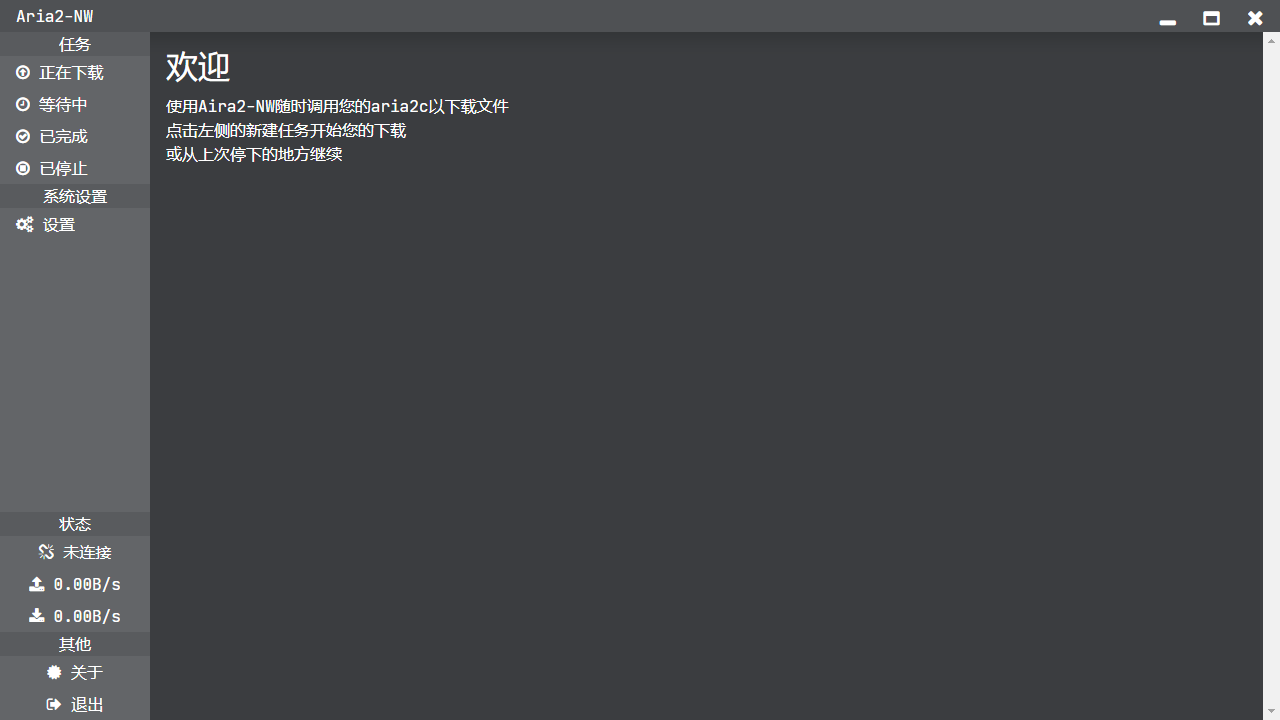
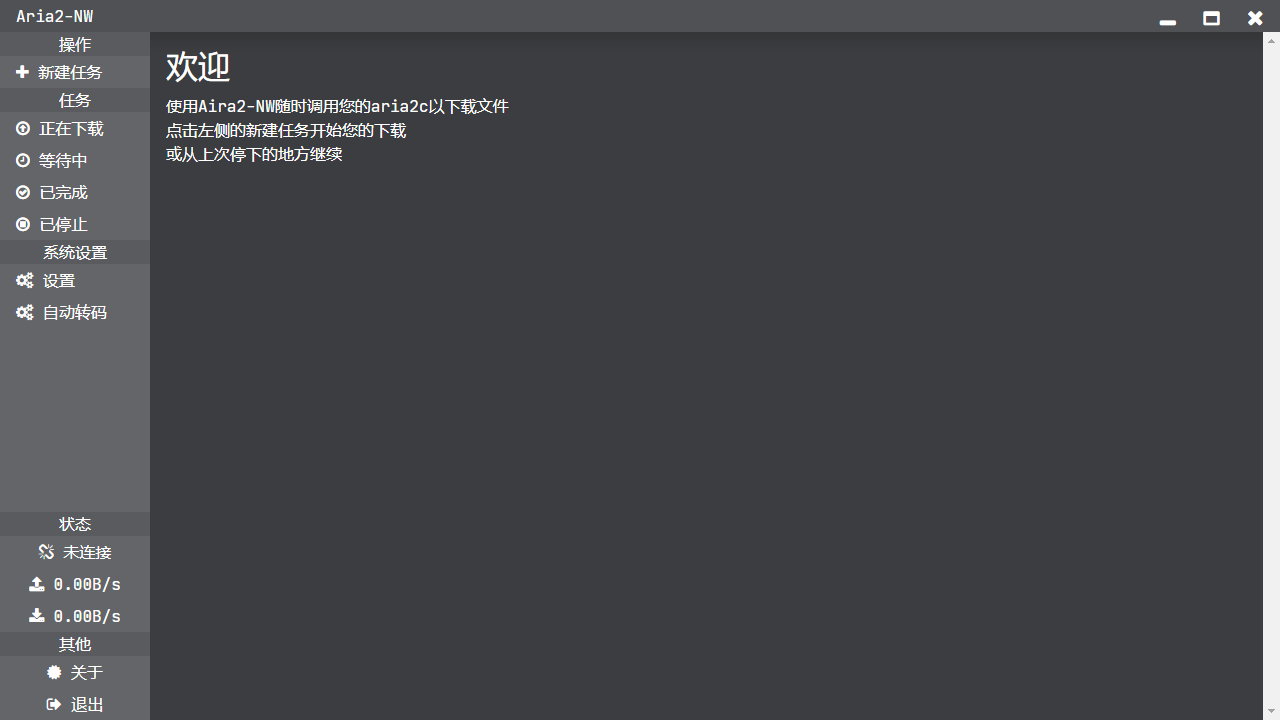
2020-05-21 11:05

Changed region(s): [[0.0, 0.0306, 0.0938, 0.3972], [0.0, 0.4278, 0.0938, 0.4583]]

diff --git a/src/index.html b/src/index.html
@@ -10,92 +10,12 @@
     <script src="resources/js/jquery.min.js"></script>
     <script src="resources/js/popper.min.js"></script>
     <script src="resources/js/bootstrap.min.js"></script>
+    <script src="resources/js/index.js"></script>
     <link href="resources/css/index.css" rel="stylesheet" rev="stylesheet">
     <link href="resources/css/navbar.css" rel="stylesheet" rev="stylesheet">
     <link href="resources/css/sidebar.css" rel="stylesheet" rev="stylesheet">
     <link href="resources/css/button.css" rel="stylesheet" rev="stylesheet">
     <link href="resources/css/tips.css" rel="stylesheet" rev="stylesheet">
-    <script>
-        window.alert = (s) => {
-            let tipDiv = $('#tipDiv');
-            let tips = $('#tips');
-            tips.html(s);
-            tipDiv.show();
-            tipDiv.height(tips.height() + 150);
-            tipDiv.width(tips.width() + 200);
-            tipDiv.css({
-                'left': (window.innerWidth - tipDiv.width()) / 2 + 'px',
-                'top': (window.innerHeight - tipDiv.height()) / 2 + 'px',
-            });
-        };
-        let chromeURL = nw.Shell.openExternal;
-        let win = nw.Window.get(undefined);
-        let runMode = process.versions['nw-flavor'];
-        if (runMode === 'sdk') {
-            // win.showDevTools();
-            setTimeout(() =>
-                    win.capturePage((buffer) => {
-                        let fs = require('fs');
-                        fs.writeFileSync('src/screenshot.png', buffer);
-                    }, {'format': 'png', 'datatype': 'buffer'})
-                , 1000);
-        }
-        let minimizeMainWindow = () => {
-            win.minimize();
-        };
-        let maximizeMainWindow = () => {
-            alert('暂不支持修改窗口大小');
-        };
-        let closeMainWindow = () => {
-            win.close();
-        };
-        let showWindow = (WINDOW_NAME) => {
-            let [
-                welcomDiv,
-                PROCESSING_TASKS,
-                WAITING_TASKS,
-                FINISHED_TASKS,
-                STOPPED_TASKS,
-                settingDiv,
-                aboutDiv
-            ] = [
-                $('#welcomeDiv'),
-                $('#PROCESSING_TASKS'),
-                $('#WAITING_TASKS'),
-                $('#FINISHED_TASKS'),
-                $('#STOPPED_TASKS'),
-                $('#settingDiv'),
-                $('#aboutDiv')
-            ];
-            welcomDiv.hide();
-            PROCESSING_TASKS.hide();
-            WAITING_TASKS.hide();
-            FINISHED_TASKS.hide();
-            STOPPED_TASKS.hide();
-            settingDiv.hide();
-            aboutDiv.hide();
-            switch (WINDOW_NAME) {
-                case 'PROCESSING_TASKS':
-                    PROCESSING_TASKS.show();
-                    break;
-                case 'WAITING_TASKS':
-                    WAITING_TASKS.show();
-                    break;
-                case 'FINISHED_TASKS':
-                    FINISHED_TASKS.show();
-                    break;
-                case 'STOPPED_TASKS':
-                    STOPPED_TASKS.show();
-                    break;
-                case 'SETTING':
-                    settingDiv.show();
-                    break;
-                case 'ABOUT':
-                    aboutDiv.show();
-                    break;
-            }
-        };
-    </script>
 </head>
 <body>
 <nav class="drag navbar shadow">
@@ -108,6 +28,8 @@
 </nav>
 <div class="sidebar">
     <ul>
+        <li class="sidebar-title">操作</li>
+        <li class="sidebar-item"><a href="javascript:showWindow('NEW_TASK');"><i class="fa fa-plus"></i> 新建任务</a></li>
         <li class="sidebar-title">任务</li>
         <li class="sidebar-item"><a href="javascript:showWindow('PROCESSING_TASKS');"><i class="fa fa-arrow-circle-o-up"></i> 正在下载</a></li>
         <li class="sidebar-item"><a href="javascript:showWindow('WAITING_TASKS');"><i class="fa fa-clock-o"></i> 等待中</a></li>
@@ -115,6 +37,7 @@
         <li class="sidebar-item"><a href="javascript:showWindow('STOPPED_TASKS');"><i class="fa fa-stop-circle-o"></i> 已停止</a></li>
         <li class="sidebar-title">系统设置</li>
         <li class="sidebar-item"><a href="javascript:showWindow('SETTING');"><i class="fa fa-cogs"></i> 设置</a></li>
+        <li class="sidebar-item"><a href="javascript:showWindow('CONVERT');"><i class="fa fa-cogs"></i> 自动转码</a></li>
     </ul>
     <ul>
         <li class="sidebar-title">状态</li>
@@ -162,23 +85,7 @@
     <div id="about">
         <h2>关于本软件</h2>
     </div>
-    <script>
-        let os = require('os');
-        let divAbout = $('#about');
-        divAbout.append(`Name: ${nw.App.manifest['name']}<br/>`);
-        divAbout.append(`Version: ${nw.App.manifest['version']}<br/><br/>`);
-        divAbout.append(`龙缘科技 版权所有<br/>
-        Copyright &copy; DESMG 2016-2020 All Rights Reserved.<br/>
-        Telegram: <a href="javascript:chromeURL('https://t.me/jyxjjj');" style="color: #CCCCCC;">@jyxjjj</a><br/>
-        GitHub: <a href="javascript:chromeURL('https://github.com/jyxjjj/aria2-nw');" style="color: #CCCCCC;">jyxjjj/aria2-nw</a><br/>
-        BUG Report: <a href="javascript:chromeURL('https://github.com/jyxjjj/aria2-nw/issues');" style="color: #CCCCCC;">GitHub Issues</a><br/>
-        <br/>`);
-        divAbout.append(`OS Type: ${os.type()} ${os.platform()} ${os.arch()}<br/>`);
-        divAbout.append(`OS Version: ${os.version()} ${os.release()}<br/>`);
-        let cpus = os.cpus();
-        divAbout.append(`CPU: ${cpus[0].model} * ${process.env.NUMBER_OF_PROCESSORS}<br/>`);
-        divAbout.append(`Memory: ${(os.freemem() / 1024 / 1024 / 1024).toFixed(2)}GiB / ${(os.totalmem() / 1024 / 1024 / 1024).toFixed(2)}GiB`);
-    </script>
+    <script src="resources/js/about.js"></script>
     <a href="javascript:$('#aboutDiv').hide();" class="btn btn-save">确定</a>
 </div>
 <!--#endregion-->

diff --git a/src/resources/js/index.js b/src/resources/js/index.js
@@ -1,0 +1,79 @@
+window.alert = (s) => {
+    let tipDiv = $('#tipDiv');
+    let tips = $('#tips');
+    tips.html(s);
+    tipDiv.show();
+    tipDiv.height(tips.height() + 150);
+    tipDiv.width(tips.width() + 200);
+    tipDiv.css({
+        'left': (window.innerWidth - tipDiv.width()) / 2 + 'px',
+        'top': (window.innerHeight - tipDiv.height()) / 2 + 'px',
+    });
+};
+let chromeURL = nw.Shell.openExternal;
+let win = nw.Window.get(undefined);
+let runMode = process.versions['nw-flavor'];
+if (runMode === 'sdk') {
+    // win.showDevTools();
+    setTimeout(() =>
+            win.capturePage((buffer) => {
+                let fs = require('fs');
+                fs.writeFileSync('src/screenshot.png', buffer);
+            }, {'format': 'png', 'datatype': 'buffer'})
+        , 1000);
+}
+let minimizeMainWindow = () => {
+    win.minimize();
+};
+let maximizeMainWindow = () => {
+    alert('暂不支持修改窗口大小');
+};
+let closeMainWindow = () => {
+    win.close();
+};
+let showWindow = (WINDOW_NAME) => {
+    let [
+        welcomDiv,
+        PROCESSING_TASKS,
+        WAITING_TASKS,
+        FINISHED_TASKS,
+        STOPPED_TASKS,
+        settingDiv,
+        aboutDiv
+    ] = [
+        $('#welcomeDiv'),
+        $('#PROCESSING_TASKS'),
+        $('#WAITING_TASKS'),
+        $('#FINISHED_TASKS'),
+        $('#STOPPED_TASKS'),
+        $('#settingDiv'),
+        $('#aboutDiv')
+    ];
+    welcomDiv.hide();
+    PROCESSING_TASKS.hide();
+    WAITING_TASKS.hide();
+    FINISHED_TASKS.hide();
+    STOPPED_TASKS.hide();
+    settingDiv.hide();
+    aboutDiv.hide();
+    switch (WINDOW_NAME) {
+        case 'PROCESSING_TASKS':
+            PROCESSING_TASKS.show();
+            break;
+        case 'WAITING_TASKS':
+            WAITING_TASKS.show();
+            break;
+        case 'FINISHED_TASKS':
+            FINISHED_TASKS.show();
+            break;
+        case 'STOPPED_TASKS':
+            STOPPED_TASKS.show();
+            break;
+        case 'SETTING':
+            settingDiv.show();
+            break;
+        case 'ABOUT':
+            aboutDiv.show();
+            break;
+    }
+};

diff --git a/src/resources/js/about.js b/src/resources/js/about.js
@@ -1,0 +1,15 @@
+let os = require('os');
+let divAbout = $('#about');
+divAbout.append(`Name: ${nw.App.manifest['name']}<br/>`);
+divAbout.append(`Version: ${nw.App.manifest['version']}<br/><br/>`);
+divAbout.append(`龙缘科技 版权所有<br/>
+        Copyright &copy; DESMG 2016-2020 All Rights Reserved.<br/>
+        Telegram: <a href="javascript:chromeURL('https://t.me/jyxjjj');" style="color: #CCCCCC;">@jyxjjj</a><br/>
+        GitHub: <a href="javascript:chromeURL('https://github.com/jyxjjj/aria2-nw');" style="color: #CCCCCC;">jyxjjj/aria2-nw</a><br/>
+        BUG Report: <a href="javascript:chromeURL('https://github.com/jyxjjj/aria2-nw/issues');" style="color: #CCCCCC;">GitHub Issues</a><br/>
+        <br/>`);
+divAbout.append(`OS Type: ${os.type()} ${os.platform()} ${os.arch()}<br/>`);
+divAbout.append(`OS Version: ${os.version()} ${os.release()}<br/>`);
+let cpus = os.cpus();
+divAbout.append(`CPU: ${cpus[0].model} * ${process.env.NUMBER_OF_PROCESSORS}<br/>`);
+divAbout.append(`Memory: ${(os.freemem() / 1024 / 1024 / 1024).toFixed(2)}GiB / ${(os.totalmem() / 1024 / 1024 / 1024).toFixed(2)}GiB`);
